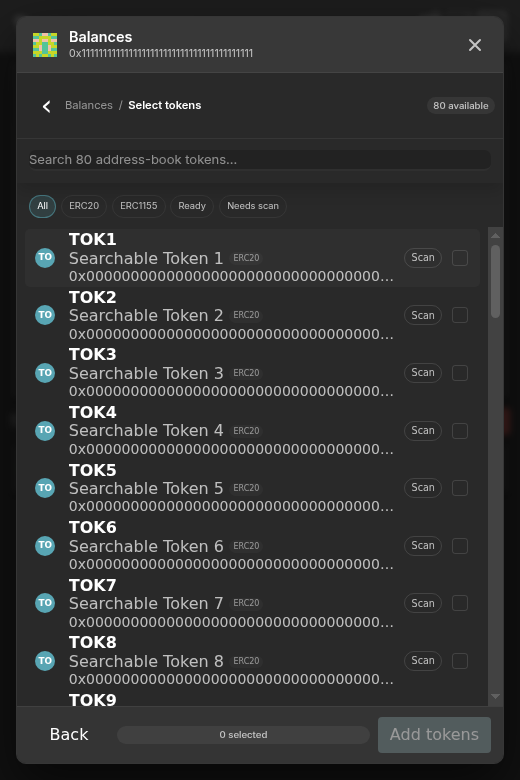
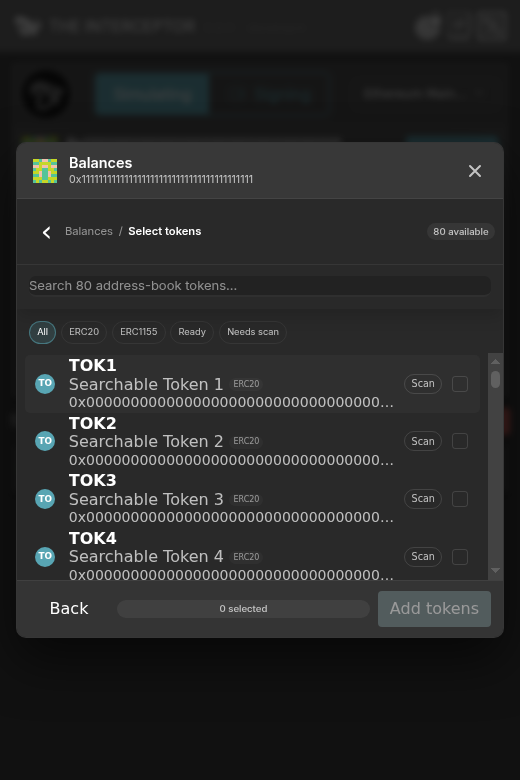
Keep rich balance dialog size stable

diff --git a/test/benchmarks/richModeScreenshot.ts b/test/benchmarks/richModeScreenshot.ts
@@ -14,6 +14,16 @@ const changeActiveAddressScreenshotPath = path.resolve('docs/screenshots/dialog-
 const addAddressScreenshotPath = path.resolve('docs/screenshots/dialog-add-address.png')
 const searchableTokenAddress = `0x${ (0x2000n + 73n).toString(16).padStart(40, '0') }`
 const sleep = async (milliseconds: number) => await new Promise<void>((resolve) => globalThis.setTimeout(resolve, milliseconds))
+type DialogRect = { height: number, left: number, top: number, width: number }
+const getRichModeDialogRect = async (connection: CdpConnection) => await connection.evaluate<DialogRect | undefined>(`(() => {
+	const dialog = document.querySelector('.rich-mode-modal-card')
+	if (!(dialog instanceof HTMLElement)) return undefined
+	const rect = dialog.getBoundingClientRect()
+	return { height: rect.height, left: rect.left, top: rect.top, width: rect.width }
+})()`)
+const assertSameRichModeDialogRect = (expected: DialogRect | undefined, actual: DialogRect | undefined) => {
+	if (expected === undefined || actual === undefined || actual.height !== expected.height || actual.left !== expected.left || actual.top !== expected.top || actual.width !== expected.width) throw new Error(`Rich-mode dialog moved or resized between views: ${ JSON.stringify(expected) } -> ${ JSON.stringify(actual) }`)
+}
 const waitForCondition = async (connection: CdpConnection, description: string, expression: string) => {
 	for (let attempt = 0; attempt < 300; attempt += 1) {
 		const ready = await connection.evaluate<boolean>(expression)
@@ -133,17 +143,49 @@ try {
 	})()`)
 	await clickFirstAriaLabelPrefix(popup, 'Edit balances for ')
 	await waitForCondition(popup, 'token picker enabled', `document.querySelector('[aria-label="Select tokens"]')?.disabled === false`)
+	await popup.send('Emulation.setDeviceMetricsOverride', {
+		width: 520,
+		height: 420,
+		deviceScaleFactor: 1,
+		mobile: false,
+	})
+	await sleep(250)
+	const constrainedBalanceDialogRect = await getRichModeDialogRect(popup)
+	if (constrainedBalanceDialogRect === undefined || constrainedBalanceDialogRect.height > 388) throw new Error(`Rich-mode dialog exceeds the constrained viewport: ${ JSON.stringify(constrainedBalanceDialogRect) }`)
+	await clickAriaLabel(popup, 'Select tokens')
+	await waitForText(popup, 'USDC')
+	await sleep(250)
+	assertSameRichModeDialogRect(constrainedBalanceDialogRect, await getRichModeDialogRect(popup))
+	await waitForCondition(popup, 'constrained token results scroll', `(() => {
+		const results = document.querySelector('[aria-label="Matching address-book tokens"]')
+		return results instanceof HTMLElement && results.scrollHeight > results.clientHeight
+	})()`)
+	await clickAriaLabel(popup, 'Back to balances')
+	await sleep(250)
+	assertSameRichModeDialogRect(constrainedBalanceDialogRect, await getRichModeDialogRect(popup))
+	await popup.send('Emulation.setDeviceMetricsOverride', {
+		width: 520,
+		height: 780,
+		deviceScaleFactor: 1,
+		mobile: false,
+	})
+	await sleep(250)
+	const balanceDialogRect = await getRichModeDialogRect(popup)
 	await clickAriaLabel(popup, 'Select tokens')
 	await waitForText(popup, 'USDC')
 	await waitForText(popup, 'ITEM #42')
+	await sleep(250)
+	assertSameRichModeDialogRect(balanceDialogRect, await getRichModeDialogRect(popup))
 	await clickTokenResult(popup, 'USDC')
 	await clickTokenResult(popup, 'ITEM #42')
 	await sleep(250)
+	assertSameRichModeDialogRect(balanceDialogRect, await getRichModeDialogRect(popup))
 	await captureScreenshot(popup, availableScreenshotPath)
 
 	await clickAriaLabel(popup, 'Add selected tokens')
 	await waitForText(popup, 'Preparing USDC')
 	await sleep(150)
+	assertSameRichModeDialogRect(balanceDialogRect, await getRichModeDialogRect(popup))
 	await captureScreenshot(popup, detectingScreenshotPath)
 	await waitForCondition(
 		popup,

diff --git a/app/ts/components/pages/Home.tsx b/app/ts/components/pages/Home.tsx
@@ -880,7 +880,7 @@ function RichList({ makeCurrentAddressRich, richNativeAmount, nativeCurrencyTick
 					showRichTokenPicker.value ? hideRichTokenSelection() : closeRichBalanceDialog()
 				} }
 			>
-				<InterceptorDialogSurface ariaLabel = { showRichTokenPicker.value ? `Select tokens for ${ selectedRichAccount.value.addressBookEntry.name }` : `Balance editor for ${ selectedRichAccount.value.addressBookEntry.name }` } class = { `rich-mode-modal-card${ showRichTokenPicker.value ? ' is-selecting-tokens' : '' }` } onBackdropClick = { closeRichBalanceDialog } size = 'large'>
+				<InterceptorDialogSurface ariaLabel = { showRichTokenPicker.value ? `Select tokens for ${ selectedRichAccount.value.addressBookEntry.name }` : `Balance editor for ${ selectedRichAccount.value.addressBookEntry.name }` } class = 'rich-mode-modal-card' onBackdropClick = { closeRichBalanceDialog } size = 'large'>
 					<InterceptorDialogHeader
 						accessory = { <div class = 'rich-mode-header-tools'>
 							{ richOperationStatus.value === undefined ? <></> : <span class = { `rich-mode-save-status ${ richOperationStatus.value.className }` } role = 'status'>{ richOperationStatus.value.label }</span> }

diff --git a/app/css/interceptor.css b/app/css/interceptor.css
@@ -3681,13 +3681,12 @@ header:has(form[role='search']) h1 {
 }
 
 .rich-mode-modal-card {
+	flex-shrink: 0;
+	height: min(31rem, calc(100% - 2rem));
 	max-height: calc(100% - 2rem);
+	min-height: 0;
 	position: relative;
 	width: calc(100% - 2rem);
-}
-
-.rich-mode-modal-card.is-selecting-tokens {
-	min-height: min(31rem, calc(100% - 2rem));
 }
 
 .rich-mode-modal-back {
